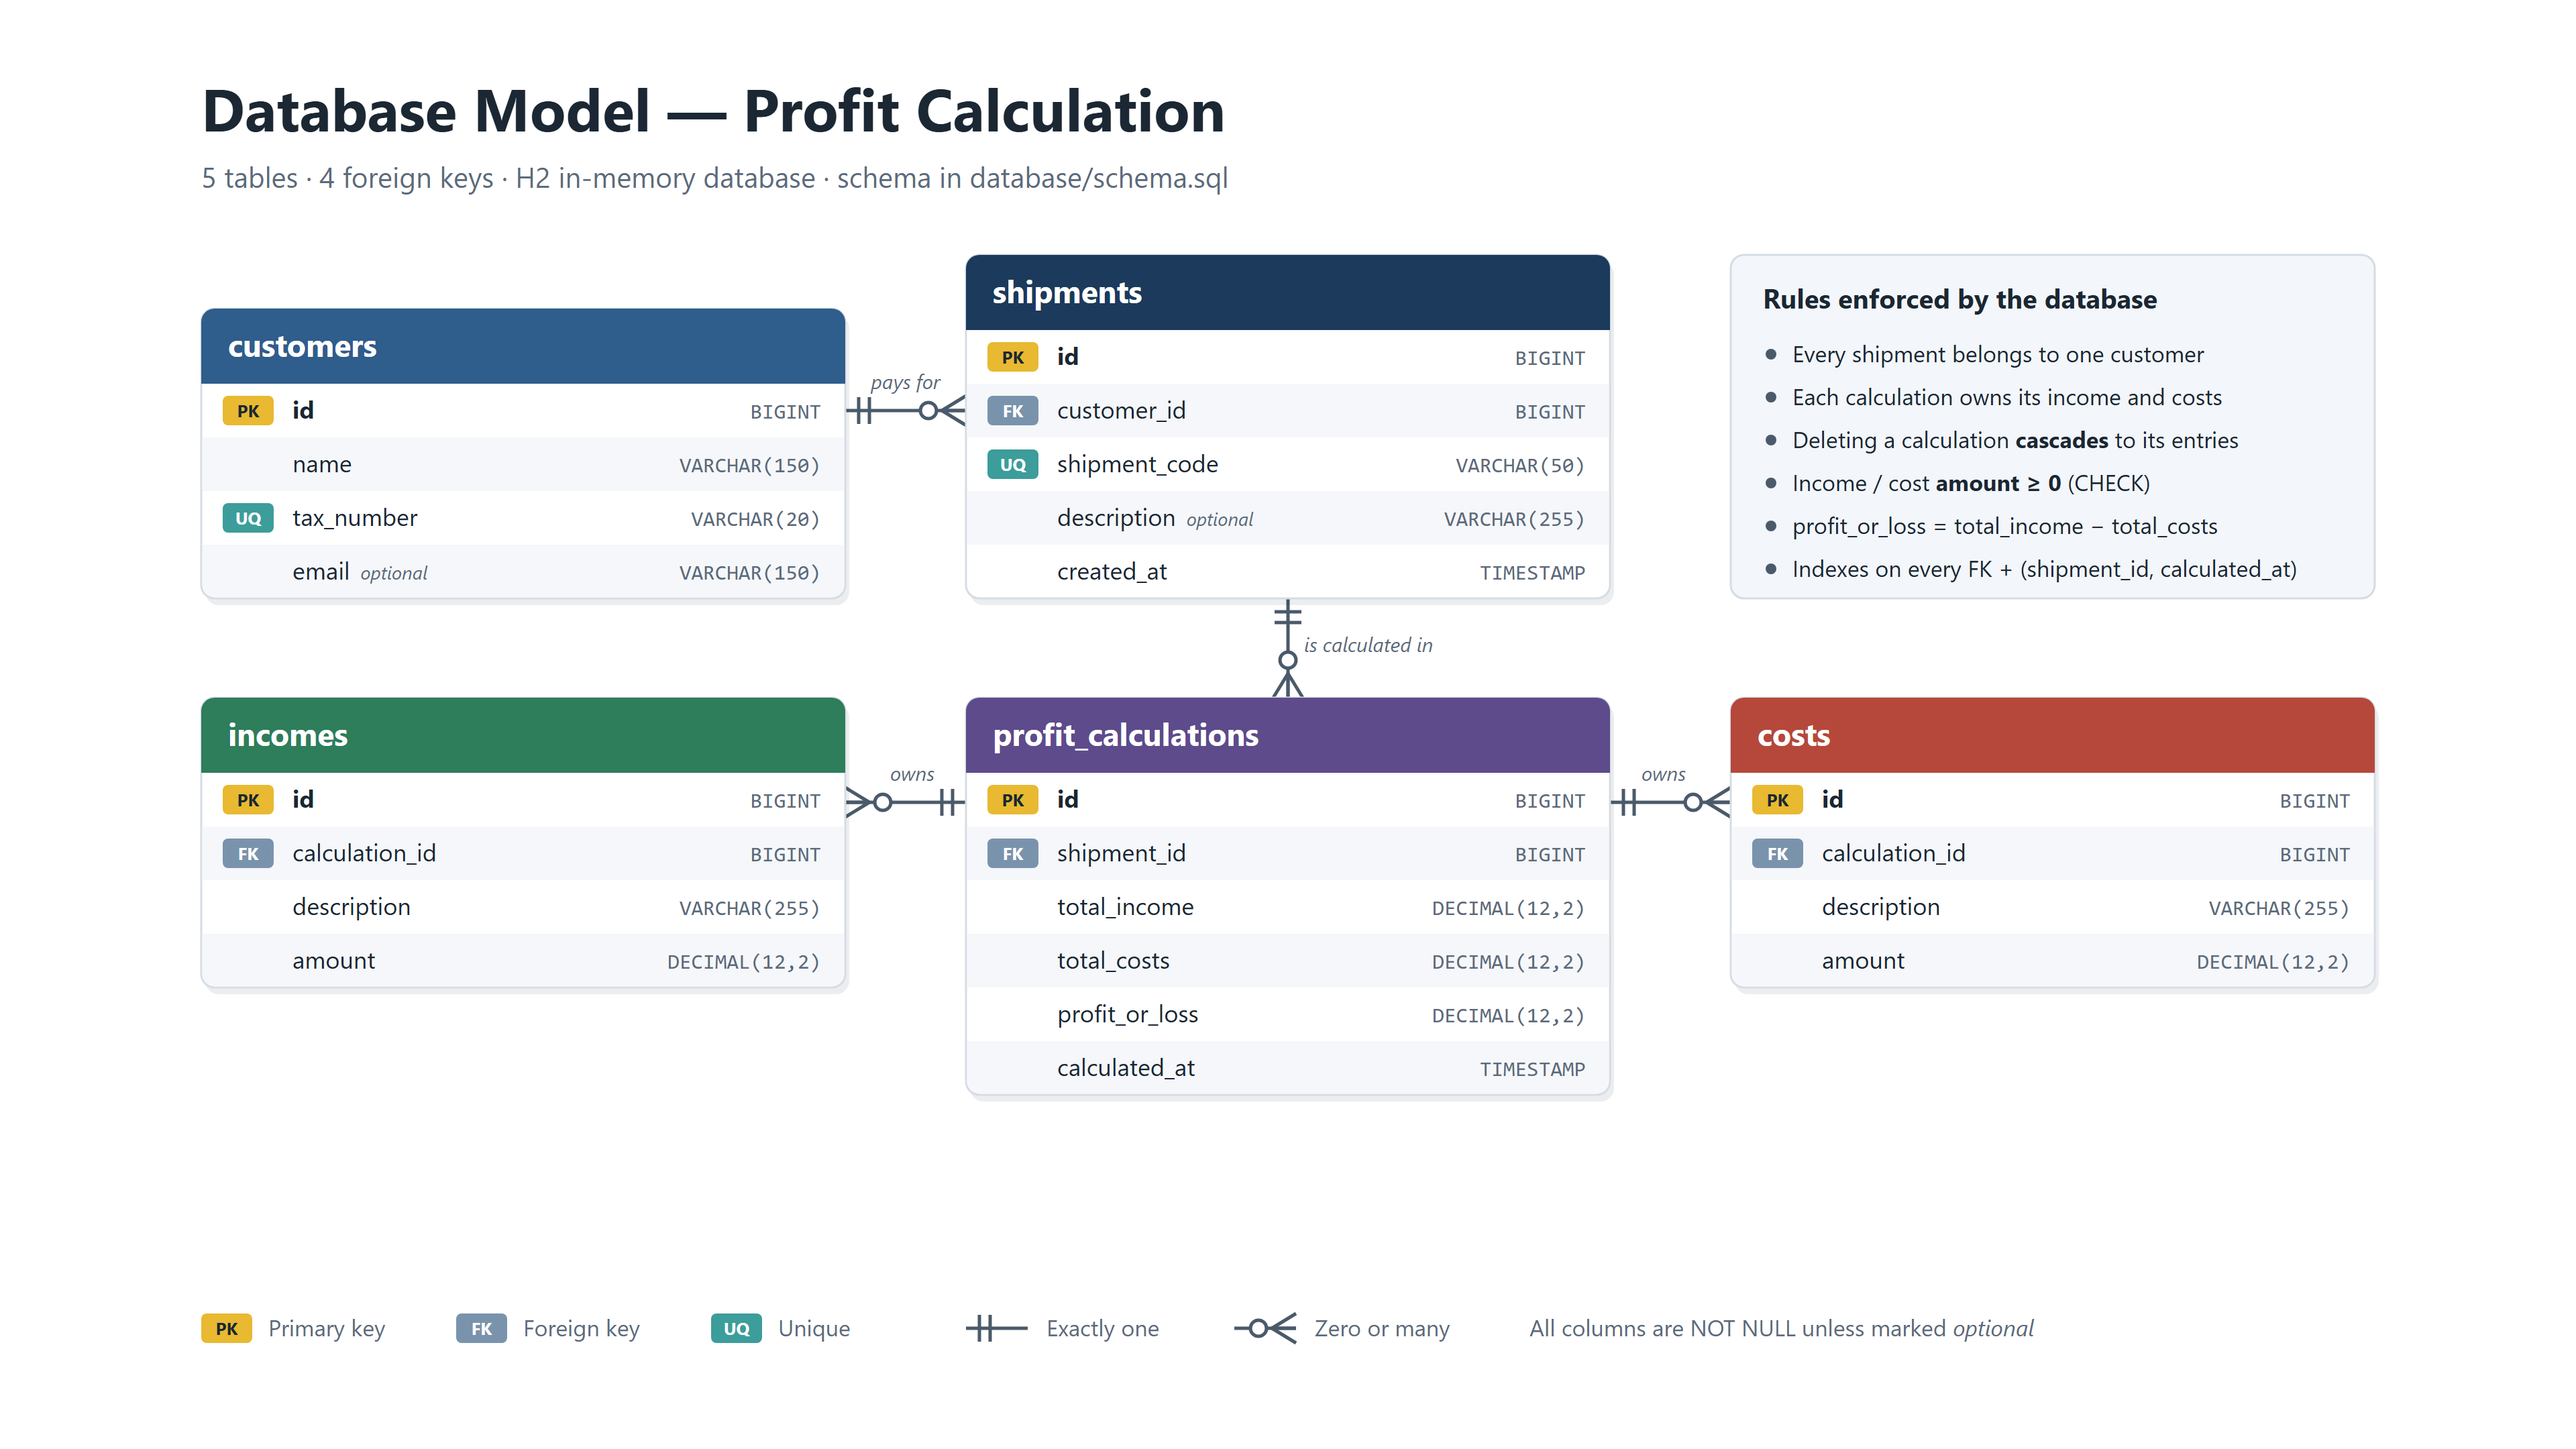
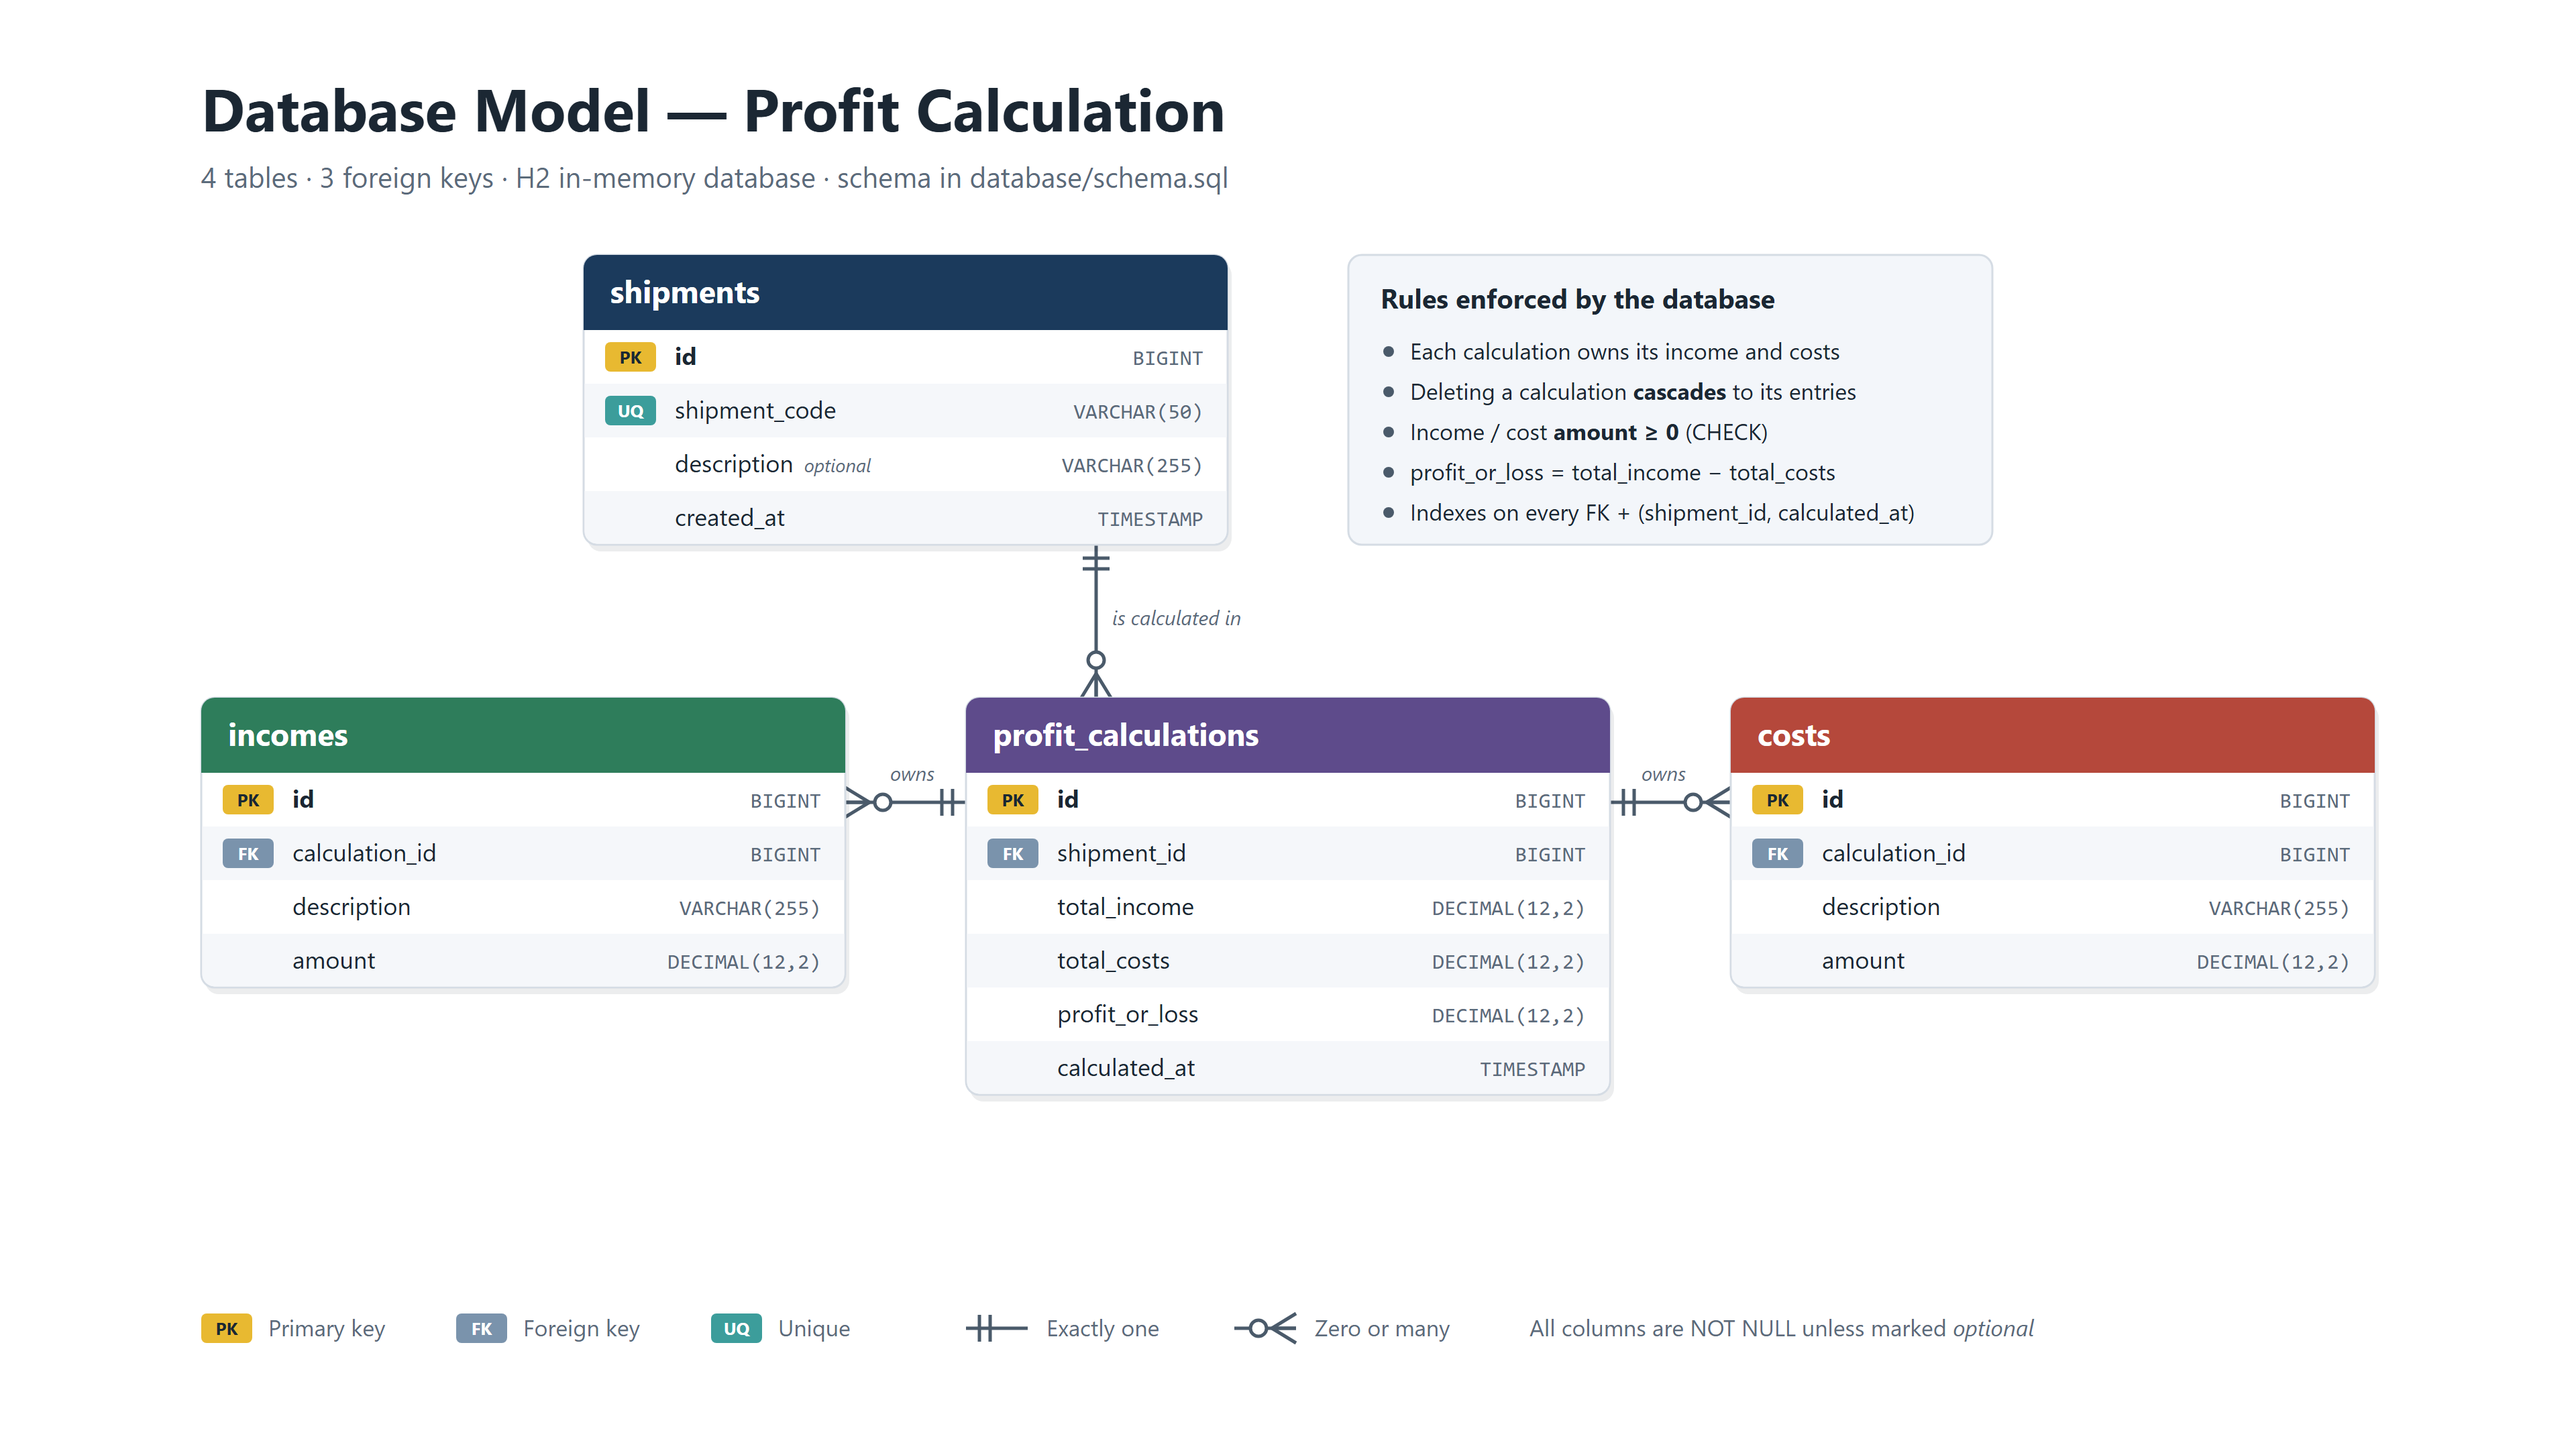
fix - Retirado do Customer na app

diff --git a/frontend/src/app/pages/calculate-profit/calculate-profit.component.html b/frontend/src/app/pages/calculate-profit/calculate-profit.component.html
@@ -12,12 +12,6 @@
       </mat-select>
     </mat-form-field>
   </div>
-
-  @if (selectedShipment) {
-    <div class="col-md-7 text-muted">
-      Customer: <strong>{{ selectedShipment.customerName }}</strong>
-    </div>
-  }
 </div>
 
 <app-calculation-form [disabled]="!selectedShipment || loading" (calculate)="calculate($event)" />

diff --git a/frontend/src/app/models/shipment.model.ts b/frontend/src/app/models/shipment.model.ts
@@ -5,5 +5,4 @@ export interface Shipment {
   id: number;
   shipmentCode: string;
   description: string;
-  customerName: string;
 }

diff --git a/backend/src/test/java/dachser/backend/service/impl/ShipmentServiceImplTest.java b/backend/src/test/java/dachser/backend/service/impl/ShipmentServiceImplTest.java
@@ -1,7 +1,6 @@
 package dachser.backend.service.impl;
 
 import dachser.backend.dto.ShipmentResponse;
-import dachser.backend.entity.Customer;
 import dachser.backend.entity.Shipment;
 import dachser.backend.exception.ShipmentNotFoundException;
 import dachser.backend.mapper.ShipmentMapper;
@@ -35,14 +34,10 @@ class ShipmentServiceImplTest {
     void setUp() {
         service = new ShipmentServiceImpl(shipmentRepository, new ShipmentMapper());
 
-        Customer customer = new Customer();
-        customer.setName("Atlantic Trading Lda");
-
         shipment = new Shipment();
         shipment.setId(1L);
         shipment.setShipmentCode("SHP-0001");
         shipment.setDescription("Shipment Porto - Lisbon");
-        shipment.setCustomer(customer);
     }
 
     @Test
@@ -50,14 +45,14 @@ class ShipmentServiceImplTest {
         when(shipmentRepository.findAll()).thenReturn(List.of(shipment));
 
         assertThat(service.findAll())
-                .containsExactly(new ShipmentResponse(1L, "SHP-0001", "Shipment Porto - Lisbon", "Atlantic Trading Lda"));
+                .containsExactly(new ShipmentResponse(1L, "SHP-0001", "Shipment Porto - Lisbon"));
     }
 
     @Test
     void findByCode_returnsShipment() {
         when(shipmentRepository.findByShipmentCode("SHP-0001")).thenReturn(Optional.of(shipment));
 
-        assertThat(service.findByCode("SHP-0001").customerName()).isEqualTo("Atlantic Trading Lda");
+        assertThat(service.findByCode("SHP-0001").description()).isEqualTo("Shipment Porto - Lisbon");
     }
 
     @Test

diff --git a/backend/src/main/java/dachser/backend/entity/Shipment.java b/backend/src/main/java/dachser/backend/entity/Shipment.java
@@ -2,12 +2,9 @@ package dachser.backend.entity;
 
 import jakarta.persistence.Column;
 import jakarta.persistence.Entity;
-import jakarta.persistence.FetchType;
 import jakarta.persistence.GeneratedValue;
 import jakarta.persistence.GenerationType;
 import jakarta.persistence.Id;
-import jakarta.persistence.JoinColumn;
-import jakarta.persistence.ManyToOne;
 import jakarta.persistence.Table;
 import lombok.Getter;
 import lombok.NoArgsConstructor;
@@ -32,11 +29,6 @@ public class Shipment {
     @Id
     @GeneratedValue(strategy = GenerationType.IDENTITY)
     private Long id;
-
-    /** Customer that pays for the shipment. */
-    @ManyToOne(fetch = FetchType.LAZY, optional = false)
-    @JoinColumn(name = "customer_id", nullable = false)
-    private Customer customer;
 
     /** Business identifier shown to the user (e.g. {@code SHP-0001}). */
     @Column(name = "shipment_code", nullable = false, unique = true, length = 50)

diff --git a/backend/src/main/java/dachser/backend/repository/ShipmentRepository.java b/backend/src/main/java/dachser/backend/repository/ShipmentRepository.java
@@ -1,11 +1,9 @@
 package dachser.backend.repository;
 
 import dachser.backend.entity.Shipment;
-import org.springframework.data.jpa.repository.EntityGraph;
 import org.springframework.data.jpa.repository.JpaRepository;
 import org.springframework.stereotype.Repository;
 
-import java.util.List;
 import java.util.Optional;
 
 /**
@@ -16,16 +14,7 @@ import java.util.Optional;
 public interface ShipmentRepository extends JpaRepository<Shipment, Long> {
 
     /**
-     * Returns all shipments with their customer loaded in the same query
-     * (avoids one extra query per shipment).
-     */
-    @Override
-    @EntityGraph(attributePaths = "customer")
-    List<Shipment> findAll();
-
-    /**
      * Finds a shipment by its business code (e.g. {@code SHP-0001}).
      */
-    @EntityGraph(attributePaths = "customer")
     Optional<Shipment> findByShipmentCode(String shipmentCode);
 }

diff --git a/backend/src/test/java/dachser/backend/controller/ProfitCalculationControllerTest.java b/backend/src/test/java/dachser/backend/controller/ProfitCalculationControllerTest.java
@@ -45,12 +45,12 @@ class ProfitCalculationControllerTest {
     @Test
     void findAllShipments_returnsList() throws Exception {
         when(shipmentService.findAll()).thenReturn(List.of(
-                new ShipmentResponse(1L, "SHP-0001", "Shipment Porto - Lisbon", "Atlantic Trading Lda")));
+                new ShipmentResponse(1L, "SHP-0001", "Shipment Porto - Lisbon")));
 
         mockMvc.perform(get("/api/shipments"))
                 .andExpect(status().isOk())
                 .andExpect(jsonPath("$[0].shipmentCode").value("SHP-0001"))
-                .andExpect(jsonPath("$[0].customerName").value("Atlantic Trading Lda"));
+                .andExpect(jsonPath("$[0].description").value("Shipment Porto - Lisbon"));
     }
 
     @Test

diff --git a/backend/src/test/java/dachser/backend/repository/RepositoryIntegrationTest.java b/backend/src/test/java/dachser/backend/repository/RepositoryIntegrationTest.java
@@ -31,10 +31,10 @@ class RepositoryIntegrationTest {
     private ProfitCalculationRepository profitCalculationRepository;
 
     @Test
-    void findByShipmentCode_loadsShipmentWithCustomer() {
+    void findByShipmentCode_returnsShipment() {
         Shipment shipment = shipmentRepository.findByShipmentCode("SHP-0001").orElseThrow();
 
-        assertThat(shipment.getCustomer().getName()).isEqualTo("Atlantic Trading Lda");
+        assertThat(shipment.getDescription()).isEqualTo("Shipment Porto - Lisbon");
     }
 
     @Test

diff --git a/backend/src/main/java/dachser/backend/mapper/ShipmentMapper.java b/backend/src/main/java/dachser/backend/mapper/ShipmentMapper.java
@@ -12,14 +12,12 @@ public class ShipmentMapper {
 
     /**
      * Converts a shipment entity into its DTO.
-     * The customer must be loaded (or the call made inside a transaction).
      */
     public ShipmentResponse toResponse(Shipment shipment) {
         return new ShipmentResponse(
                 shipment.getId(),
                 shipment.getShipmentCode(),
-                shipment.getDescription(),
-                shipment.getCustomer().getName()
+                shipment.getDescription()
         );
     }
 }

diff --git a/backend/src/main/java/dachser/backend/dto/ShipmentResponse.java b/backend/src/main/java/dachser/backend/dto/ShipmentResponse.java
@@ -6,12 +6,10 @@ package dachser.backend.dto;
  * @param id           technical identifier
  * @param shipmentCode business code (e.g. {@code SHP-0001})
  * @param description  free text description
- * @param customerName name of the customer that pays for the shipment
  */
 public record ShipmentResponse(
         Long id,
         String shipmentCode,
-        String description,
-        String customerName
+        String description
 ) {
 }
